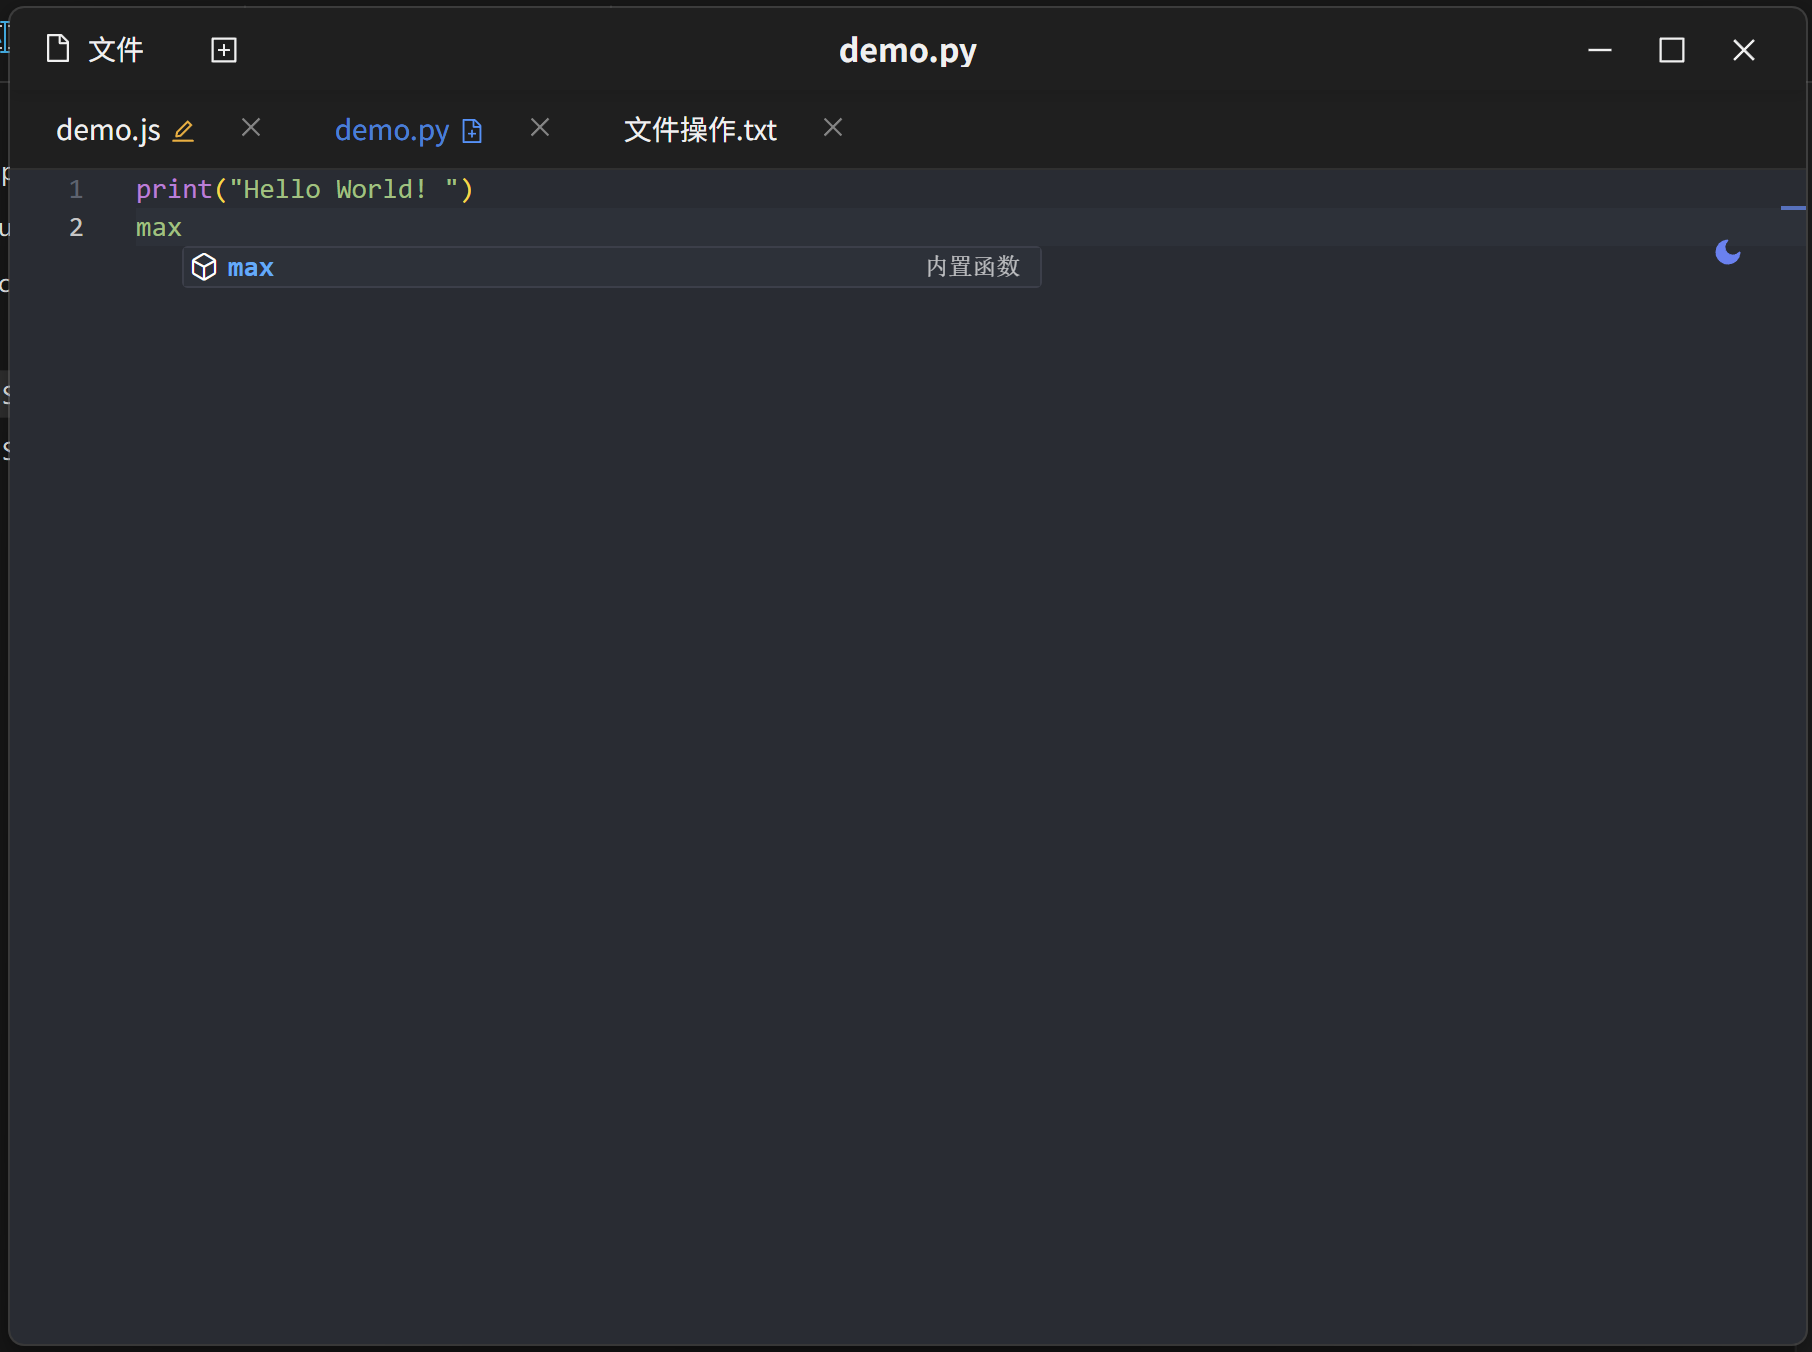
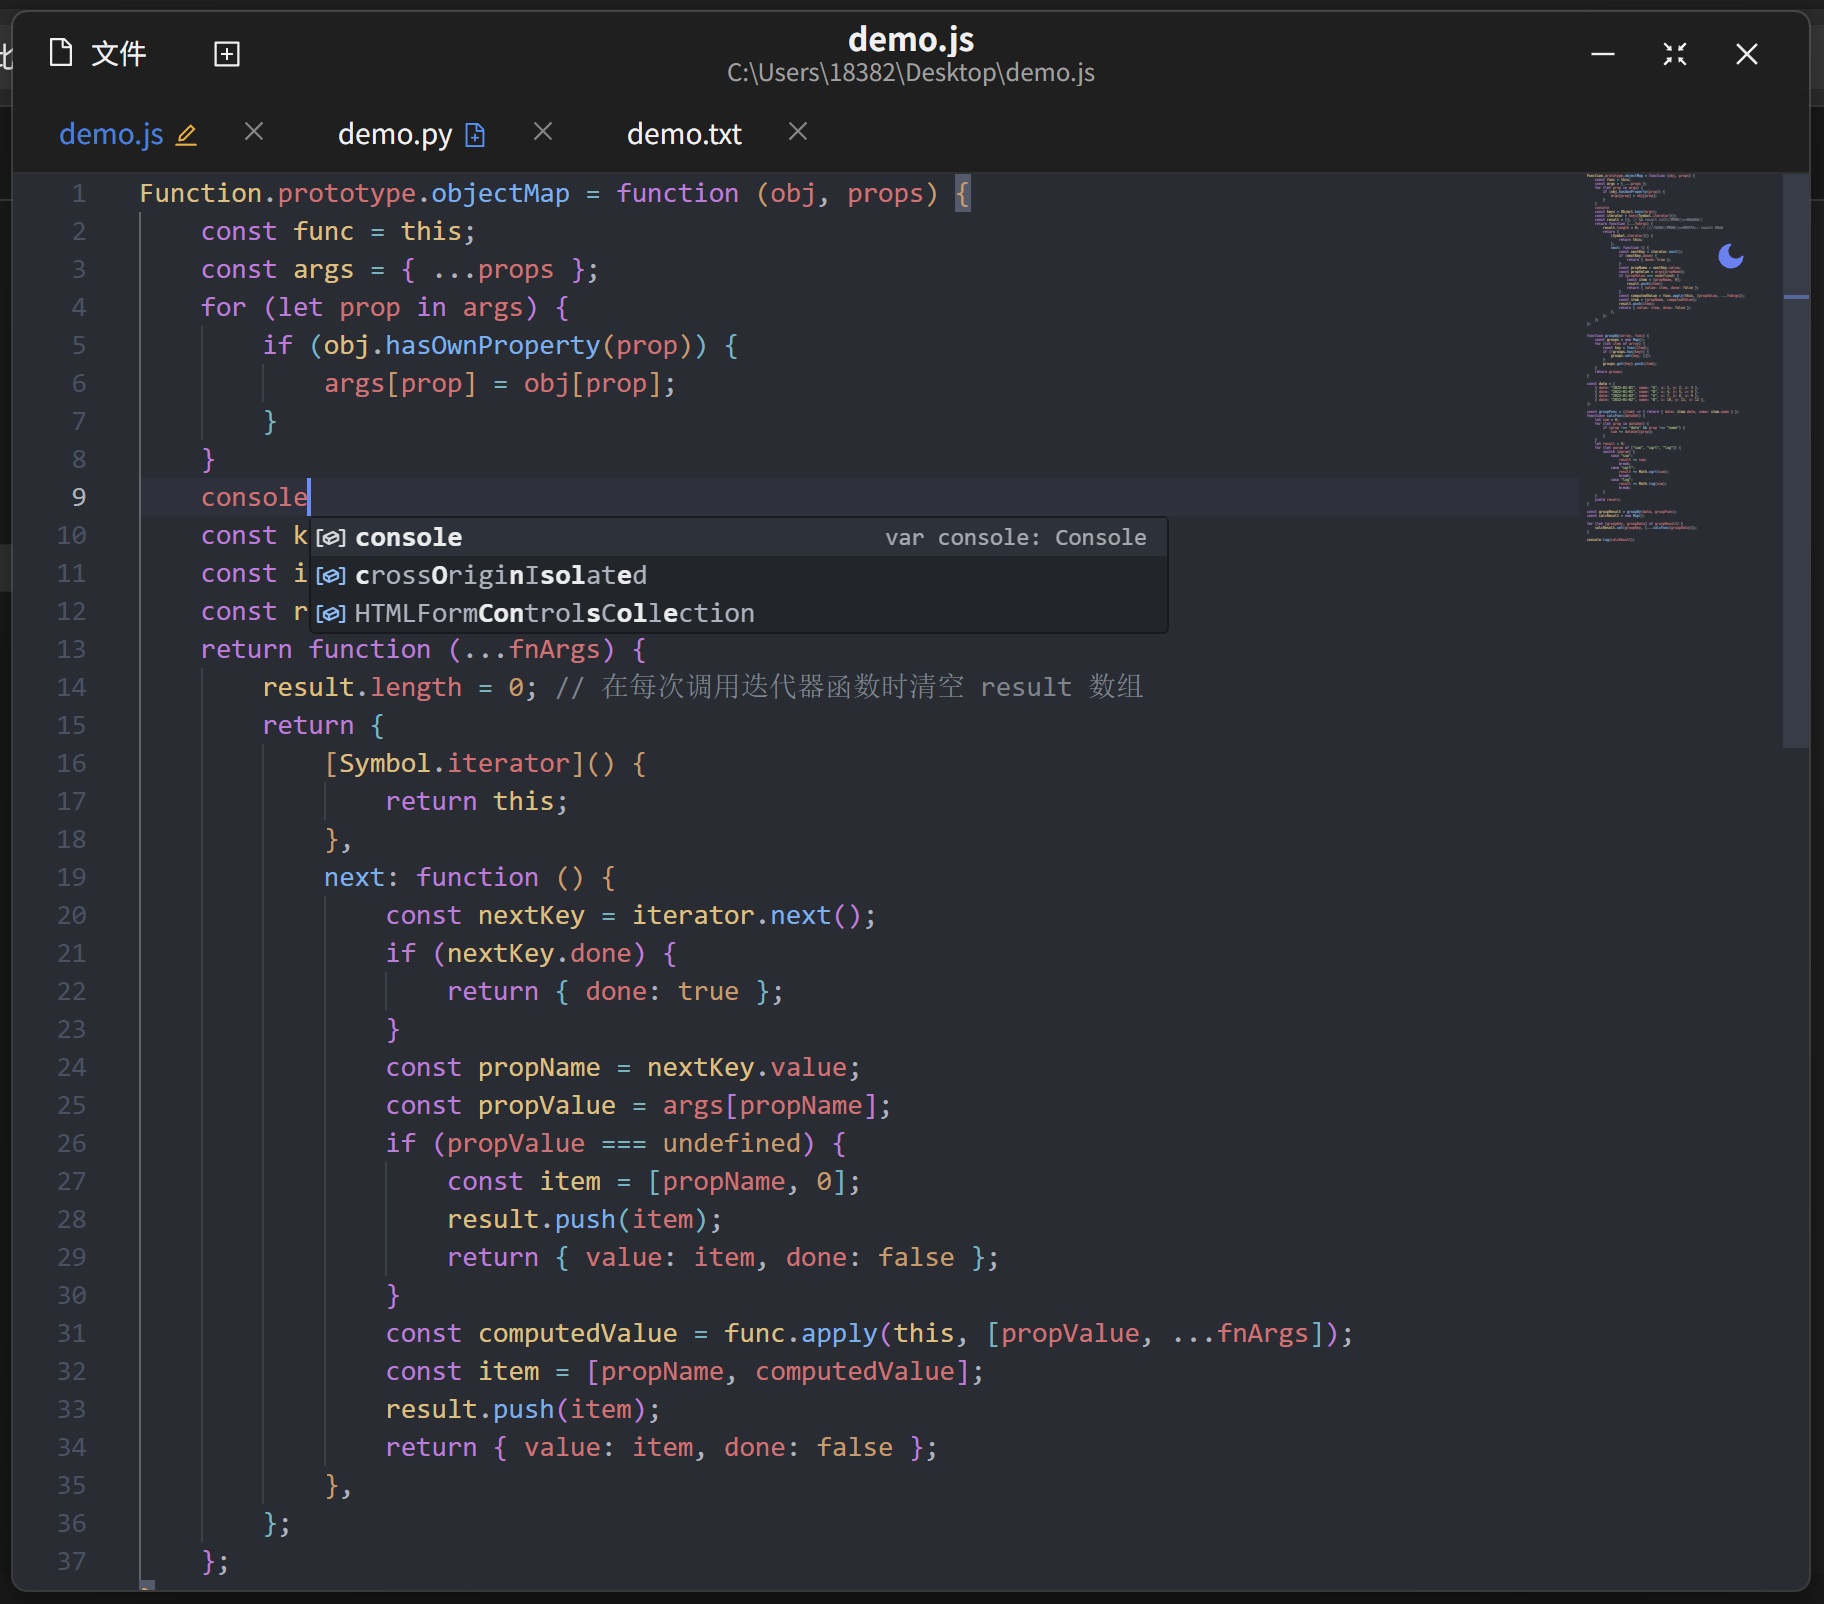
chore(release): v1.0.3
- 解决历史遗留问题
- 重构monaco编辑器，使用本地化monaco编辑器解决方案
- 使用ShikiToMonaco主题库代替自定义的monaco高亮主题
- 保存文件时根据当前文件类型生成推荐类型列表
- 增加默认语法补全建议和检查，增加代码小地图的支持

diff --git a/README.md b/README.md
@@ -7,7 +7,7 @@
 ## 🚀 核心特性
 
 - **代码补全与建议**：基于Monaco框架编辑器上下文的智能代码提示，加速开发流程。
-- **多语言支持**：支持主流编程语言的语法高亮、补全建议和语法检查#目前仅支持javascript和python。
+- **多语言支持**：支持主流编程语言的语法高亮、补全建议和语法检查#目前仅支持JSon、JS/TS、HTML、CSS以及相关框架。
 - **主题定制**：支持明暗主题切换，满足个性化偏好。
 
 ## 📸 页面截图展示
